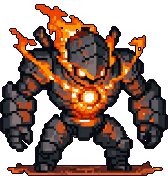
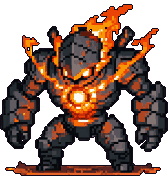
fix(art): turn the Kiln Warden and Root Daemon toward the Maintainer, use the one-goggles portrait, and keep old renders cached
- `flip: true` in post mirrors a finished picture or sprite. The two guardians were
  painted looking right, away from the Maintainer; their arena sprites are mirrored.
- The battle portrait is now the candidate the player picked (one pair of goggles,
  not two), mirrored so it looks into the stage.
- The render cache key grew twice (pose guidance, then layout sketches), and each
  time every older render looked stale: 175 of 181 cached renders, so a plain
  generate.py would have re-rendered the whole manifest. An older key's hash is now
  accepted while the newer inputs are unset for that asset.

diff --git a/scripts/art/generate.py b/scripts/art/generate.py
@@ -44,6 +44,9 @@ GENERATION_KEYS = (
     "width", "height", "steps", "cfg", "sampler", "scheduler", "seed", "candidates", "rmbg", "control", "control_digest",
     "init", "init_digest",
 )
+# Keys added to GENERATION_KEYS after renders were already cached, oldest first. Adding a key changes every asset's
+# hash, and nearly two hundred cached renders would all look stale and render again.
+LATER_GENERATION_KEYS = (("control", "control_digest"), ("init", "init_digest"))
 
 
 # ---------------------------------------------------------------------------------------------------------------------
@@ -76,8 +79,24 @@ def selected(assets: list[dict], only: str | None) -> list[dict]:
     return picked
 
 
-def generation_hash(job: dict) -> str:
-    return hashlib.sha256(json.dumps({k: job.get(k) for k in GENERATION_KEYS}, sort_keys=True).encode()).hexdigest()
+def generation_hash(job: dict, keys: tuple[str, ...] = GENERATION_KEYS) -> str:
+    return hashlib.sha256(json.dumps({k: job.get(k) for k in keys}, sort_keys=True).encode()).hexdigest()
+
+
+def cached_hashes(job: dict) -> list[str]:
+    """Every hash a still-valid cached render of this job could carry: today's, then the one each older key list gave.
+
+    LEARN: an old hash only counts while it still describes the asset. A render cached before `init` existed is the
+    same render for an asset without `init`, but the moment the manifest gives it a layout, the old hash (which never
+    saw `init`) must stop matching, or the layout would be silently ignored."""
+    keys = GENERATION_KEYS
+    hashes = [generation_hash(job, keys)]
+    for added in reversed(LATER_GENERATION_KEYS):
+        if any(job.get(key) is not None for key in added):
+            break
+        keys = tuple(key for key in keys if key not in added)
+        hashes.append(generation_hash(job, keys))
+    return hashes
 
 
 # ---------------------------------------------------------------------------------------------------------------------
@@ -246,7 +265,7 @@ def ensure_raws(comfy: str, job: dict, force: bool, reprocess_only: bool) -> lis
     if sketch is not None:
         job["init_digest"] = hashlib.sha256(sketch.tobytes()).hexdigest()
     digest = generation_hash(job)
-    cached = meta_path.exists() and json.loads(meta_path.read_text()).get("hash") == digest
+    cached = meta_path.exists() and json.loads(meta_path.read_text()).get("hash") in cached_hashes(job)
     if not cached or force:
         if reprocess_only:
             print(f"  skip {job['id']}: no cached render (drop --reprocess to render it)")
@@ -725,6 +744,9 @@ def post_glow(raw: np.ndarray, post: dict) -> Image.Image:
 def process(job: dict, raw: np.ndarray) -> list[tuple[str, Image.Image]]:
     post = job["post"]
     kind = post["kind"]
+    if post.get("flip") and kind not in ("glow", "sprite", "picture"):
+        # Mirroring a strip or a tile set whole would also reverse its frame order or break its seams.
+        raise ValueError(f"{job['id']}: flip works on one image (glow, sprite, picture), not on a {kind}")
     if kind == "pose-strip":
         # Background removal's own mask, unless told to cut the white instead: on a sheet of well-spaced figures it keeps
         # pale skin and white eyes that a white cut would punch holes through.
@@ -733,12 +755,12 @@ def process(job: dict, raw: np.ndarray) -> list[tuple[str, Image.Image]]:
     if kind == "glow":
         return [(job["out"], post_glow(raw, post))]
     if kind == "sprite":
-        return with_copies([(job["out"], post_sprite(raw, post))], post)
+        return with_copies([(job["out"], mirrored(post_sprite(raw, post), post))], post)
     if kind == "tiles":
         variants = post_tiles(raw, post)
         return [(f"{job['out']}-{i}", image) for i, image in enumerate(variants)]
     if kind == "picture":
-        return with_copies([(job["out"], post_picture(raw, post))], post)
+        return with_copies([(job["out"], mirrored(post_picture(raw, post), post))], post)
     if kind == "walk-cycle":
         return post_walk_cycle(sheet_alpha(raw, post), post, job)
     if kind == "walk-sheet":
@@ -753,6 +775,14 @@ def process(job: dict, raw: np.ndarray) -> list[tuple[str, Image.Image]]:
                 outputs.append((job["out"], sprite))
         return outputs
     raise ValueError(f"unknown post kind {kind!r} for {job['id']}")
+
+
+def mirrored(image: Image.Image, post: dict) -> Image.Image:
+    """`flip`: mirror left to right, after everything else. A foe painted looking right has to face the Maintainer on
+    its left, and the battle portrait in the lower left has to look into the stage. The file itself is mirrored rather
+    than the sprite on screen, so everything that reads the image (the sprite, its hit flash's mask, the pixels a
+    defeated foe breaks into) agrees."""
+    return image.transpose(Image.Transpose.FLIP_LEFT_RIGHT) if post.get("flip") else image
 
 
 def with_copies(outputs: list[tuple[str, Image.Image]], post: dict) -> list[tuple[str, Image.Image]]:

diff --git a/assets/README.md b/assets/README.md
@@ -154,8 +154,16 @@ background; do not pick those.
 An asset with `raw_from: <other asset id>` renders nothing: it post-processes that asset's cached render with its own
 `post` settings. That is how a foe's arena sprite and its map sprite stay one design.
 
+`flip: true` in `post` mirrors a finished picture or sprite (or a glow) left to right. Foes stand on the right of the
+stage, so one painted looking right faces away from the Maintainer: the Kiln Warden's and the Root Daemon's arena
+sprites are flipped, and so is the battle portrait, so it looks into the stage from the lower left. The file itself is
+mirrored, so the sprite, its hit flash, and the pixels it breaks into all agree.
+
 Changing only `post` settings (or `pick`) never touches the GPU again. Changing a prompt, seed, or model re-renders
-that asset.
+that asset. The cache key is a hash of everything that shapes a render (`GENERATION_KEYS`). When the pipeline learns a
+new kind of input (pose guidance, layout sketches), its keys are also listed in `LATER_GENERATION_KEYS`: a render
+cached before they existed still counts for an asset that does not use them, instead of the whole manifest looking
+stale and rendering again.
 
 #### The first pass (expeditions and HUD)
 

diff --git a/docs/PLAYTEST_NOTES.md b/docs/PLAYTEST_NOTES.md
@@ -3,6 +3,17 @@
 Friction found while playing, newest first. Each entry: date, commit, what happened, severity (blocker / annoying /
 polish), and the follow-up (a ROADMAP item or the commit that fixed it).
 
+## 2026-09-17 — the player's look at the arenas
+
+- **The Kiln Warden and the Root Daemon faced away from the Maintainer.** Annoying; both were painted turned to the
+  right. Their arena sprites are now mirrored in the art pipeline (`flip`), checked in both guardian fights.
+- **The battle portrait wore two pairs of goggles** (one on the hood, one over the eyes). Polish; the player found a
+  better candidate among the renders (`battle-portrait-artificer_rgb_00003_`, one pair). It is the pick now, mirrored
+  to look into the stage.
+- Found on the way: every art asset rendered before the pose-guidance and layout-sketch keys existed looked stale to
+  the cache (175 of 181), so a plain `generate.py` would have rendered the whole manifest again. Fixed; a full
+  `--reprocess` now finds every cached render.
+
 ## 2026-09-17 — the arenas, from screenshots in every room (ADR-0019 amendment)
 
 The player asked to go "a little more all out" on the level backgrounds. Checked by rendering candidates, judging them

diff --git a/docs/LEARNING_LOG.md b/docs/LEARNING_LOG.md
@@ -446,4 +446,8 @@ language feature took more than a minute to understand.
   sprite or a number (`light()` and `drawSpots()` in `fx/engine.ts`).
 - **CSS background lists as a fallback.** `background-image: url(a), url(b)` paints `a` over `b`; if `a` fails to
   load, `b` simply shows. A missing optional image degrades without any JavaScript noticing (`Stage.tsx`).
+- **Adding a field to a cache key invalidates everything.** The art cache hashes a list of inputs; hashing a missing
+  field as `null` still changes every hash, so adding pose guidance made 77 old renders look stale, and adding layout
+  sketches made 175. `cached_hashes` in `scripts/art/generate.py` also accepts the hash an older key list gave, but
+  only while the newer fields are unset: an old render is still the right render for an asset that never used them.
 
